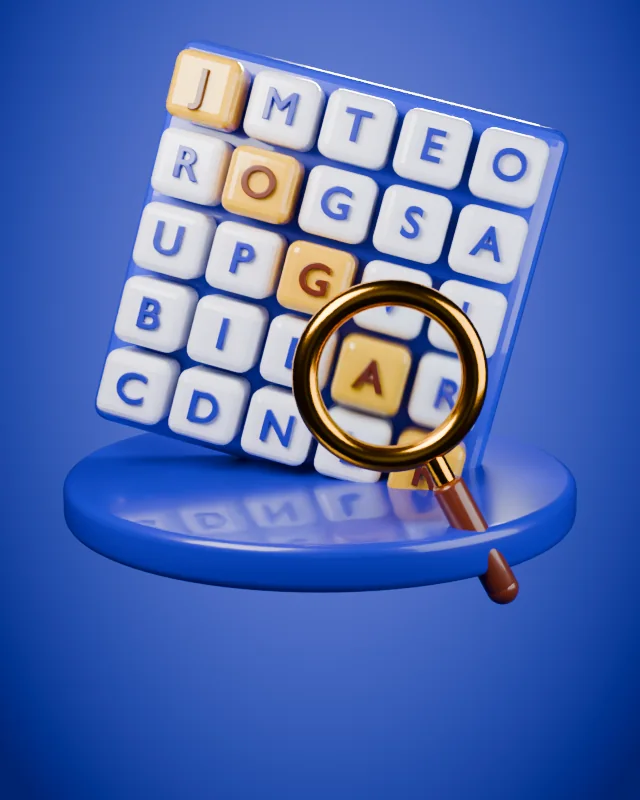
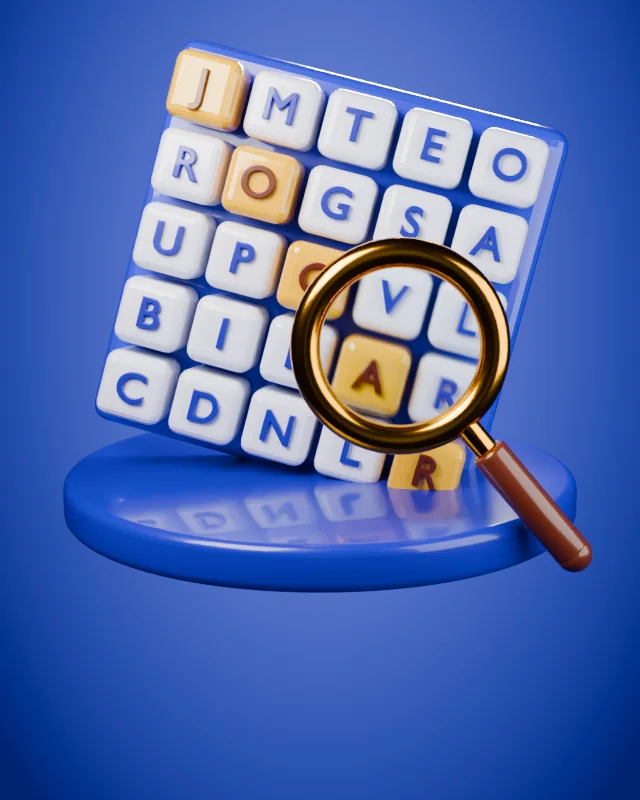
Fallback art for upcoming PlayVerse games
Claude-Session: https://claude.ai/code/session_01MHknEQHwoRP7PDrNv3vHVE

Changed region(s): [[0.4375, 0.2812, 0.9375, 0.7812]]

diff --git a/js/core/art.js b/js/core/art.js
@@ -93,8 +93,15 @@ const COVERS = new Set(['soccer', 'squad', 'mapquiz', 'flags', 'polyglot', 'busj
 export const hasCover = (id) => COVERS.has(id);
 export const coverUrl = (id) => new URL(`../../assets/covers/${id}.webp`, import.meta.url).href;
 
+// Temporary drawn art for games that do not have a 3D cover yet.
+const EMOJI_ART = { blocks: ['🧱', '#2b6fe0', '#0d2a6b'], water: ['🧪', '#7c3aed', '#2b0d6b'], snake: ['🐍', '#16a34a', '#06361c'], numbers: ['🔢', '#f59e0b', '#6b3a05'], solitaire: ['🃏', '#0f766e', '#04302c'], checkers: ['⚫', '#b91c1c', '#3a0707'], domino: ['🁣', '#0ea5e9', '#06334d'], sudoku: ['🔟', '#6366f1', '#1e1b6b'], g2048: ['🎲', '#f97316', '#5a2105'], crossword: ['✏', '#e11d48', '#4a0719'] };
+const emojiArt = (id) => {
+  const [e, a, b] = EMOJI_ART[id] || ['🎮', '#444', '#111'];
+  return `<div class="art" style="background:radial-gradient(circle at 50% 38%,${a},${b})"><span class="art-emoji c" style="--s:52">${e}</span></div>`;
+};
+
 export function gameArt(id) {
-  const legacy = (ART[id] || ART.soccer)();
+  const legacy = (ART[id] || (() => emojiArt(id)))();
   if (!COVERS.has(id)) return legacy;
   return `${legacy}<img class="cover" src="${coverUrl(id)}" alt="" decoding="async" draggable="false" onerror="this.remove()">`;
 }

diff --git a/tools/covers/squad.py b/tools/covers/squad.py
@@ -1,0 +1,53 @@
+import sys, os, random
+sys.path.insert(0, os.path.dirname(os.path.abspath(__file__)))
+from rig import *
+random.seed(5)
+S = int(os.environ.get('SAMPLES', 128))
+new_scene('#ffae3d', '#4a1438', samples=S)
+sand = glossy('#c98a45', 0.55, 0.2); sand2 = glossy('#8f5a2c', 0.55, 0.2)
+tan = glossy('#e0c07a', 0.35, 0.5); olive = glossy('#7d8f45', 0.35, 0.5); brown = glossy('#8a5a2b', 0.35, 0.5)
+trk = glossy('#3a3a3e', 0.5, 0.2); steel = metal('#4d4f55', 0.35); wheelm = glossy('#6d6a60', 0.4, 0.3)
+fire1 = emit('#ff4a00', 0.55); fire2 = emit('#ff9a00', 0.9); fire3 = emit('#e01800', 0.45)
+smoke = glossy('#3a3236', 0.8, 0.0); smoke2 = glossy('#5e5258', 0.8, 0.0); rub = glossy('#9a7a55', 0.6, 0.1)
+objs = []
+objs.append(cylinder(3.3, 0.5, sand, (0, 0, -0.25), bevel=0.22, seg=96))
+objs.append(cylinder(3.25, 0.6, sand2, (0, 0, -0.75), bevel=0.15, seg=96))
+# explosion behind
+fx = [(2.0, 1.2, 1.1, 1.0, fire3), (2.6, 1.0, 1.7, 0.8, fire1), (1.4, 1.4, 1.7, 0.75, fire1), (2.0, 0.8, 1.7, 0.55, fire2),
+      (2.5, 0.7, 1.1, 0.55, fire2), (1.8, 1.2, 2.4, 0.5, fire1), (3.0, 1.0, 2.2, 0.4, fire3), (1.0, 1.4, 1.1, 0.45, fire3)]
+for x, y, z, r, m in fx:
+    objs.append(sphere(r, m, (x, y, z), seg=32))
+for x, z, r, m in [(2.2, 2.9, 0.8, smoke), (1.4, 2.6, 0.6, smoke2), (3.0, 2.8, 0.55, smoke2), (2.4, 3.6, 0.55, smoke), (3.4, 2.0, 0.5, smoke)]:
+    objs.append(sphere(r, m, (x, 1.3, z), seg=32))
+for i in range(10):
+    a = random.uniform(0, 6.28)
+    objs.append(sphere(random.uniform(0.07, 0.14), fire2, (2.1 + math.cos(a)*random.uniform(1.2, 1.8), 0.6, 1.8 + math.sin(a)*random.uniform(1.0, 1.4)), seg=12))
+# tank
+t = []
+t.append(box((3.2, 0.5, 0.8), trk, (0, -1.0, 0.55), bevel=0.2))
+t.append(box((3.2, 0.5, 0.8), trk, (0, 1.0, 0.55), bevel=0.2))
+for sy in (-1, 1):
+    for x in (-1.2, -0.6, 0, 0.6, 1.2):
+        t.append(cylinder(0.33, 0.56, wheelm, (x, sy*1.0, 0.5), rot=(90, 0, 0), bevel=0.05))
+    t.append(cylinder(0.12, 0.58, trk, (1.45, sy*1.0, 0.55), rot=(90, 0, 0), bevel=0.02))
+    t.append(box((3.0, 0.62, 0.12), tan, (0, sy*1.0, 0.95), bevel=0.04))
+t.append(box((2.8, 1.8, 0.55), tan, (0, 0, 0.95), bevel=0.14))
+t.append(box((1.0, 1.7, 0.4), tan, (1.5, 0, 0.9), rot=(0, 28, 0), bevel=0.1))
+# camo patches
+for x, y, c in [(-0.8, -0.5, olive), (0.4, 0.45, brown), (-0.3, 0.6, olive), (0.9, -0.55, brown), (-1.2, 0.3, brown)]:
+    t.append(sphere(0.4, c, (x, y, 1.2), scale=(1.3, 1.0, 0.14)))
+# turret
+t.append(cylinder(0.85, 0.42, tan, (-0.15, 0, 1.45), bevel=0.14))
+t.append(box((1.3, 1.1, 0.5), tan, (-0.1, 0, 1.75), bevel=0.15))
+t.append(sphere(0.3, olive, (-0.1, 0.25, 2.1), scale=(1.4, 1.0, 0.3)))
+t.append(cylinder(0.2, 0.12, steel, (-0.5, -0.2, 2.05), bevel=0.03))
+t.append(cylinder(0.17, 0.5, tan, (0.4, 0, 1.8), rot=(0, 90, 0), bevel=0.04))
+t.append(cylinder(0.12, 2.0, steel, (1.6, 0, 1.8), rot=(0, 90, 0), bevel=0.02))
+t.append(cylinder(0.17, 0.3, steel, (2.55, 0, 1.8), rot=(0, 90, 0), bevel=0.04))
+t.append(cylinder(0.04, 0.9, steel, (-0.8, 0.4, 2.3), rot=(0, 0, 0), bevel=0.0))
+objs.append(parent(t, loc=(-0.7, -0.9, 0.0), rot=(0, 0, -25), scale=1.05))
+# rubble
+for x, y, s in [(-2.4, 0.8, 0.5), (-2.0, 1.4, 0.38), (-2.7, 0.2, 0.3), (2.7, -0.6, 0.35), (2.4, -1.4, 0.28), (-1.4, 1.9, 0.3)]:
+    objs.append(box((s, s*1.2, s*0.8), rub, (x, y, s*0.4), rot=(random.uniform(0, 30), random.uniform(0, 30), random.uniform(0, 90)), bevel=0.06))
+parent(objs, loc=(0, 0, 0.0), rot=(17, 0, 0), scale=0.72)
+render('squad')

diff --git a/tools/covers/hero.py b/tools/covers/hero.py
@@ -1,0 +1,52 @@
+import os, sys, math
+sys.path.insert(0, os.path.dirname(__file__))
+from props import *
+
+new_scene('#2fd070', '#06411f', samples=int(os.environ.get('S', 96)))
+# pitch disc with line + little goal
+pit = glossy('#1f9b4a', 0.7, 0.0, name='pitch')
+cylinder(3.3, 0.5, pit, loc=(0, 0.3, -0.25), bevel=0.12, seg=96)
+torus(1.5, 0.045, matte('#eafff0', 0.4, name='line'), loc=(0, 0.3, 0.0), rot=(0, 0, 0))
+white = glossy('#ffffff', 0.25, 0.7, name='post')
+netm = matte('#ffffff', 0.5, name='net')
+gx, gy, gw, gh, gd = -1.1, 1.7, 2.4, 1.3, 0.8
+for sx in (-1, 1):
+    cylinder(0.07, gh, white, loc=(gx + sx * gw / 2, gy, gh / 2), bevel=0.02, seg=24)
+    cylinder(0.04, gd, white, loc=(gx + sx * gw / 2, gy + gd / 2, 0.02), rot=(90, 0, 0), bevel=0.01, seg=16)
+    cylinder(0.04, gh, white, loc=(gx + sx * gw / 2, gy + gd, gh / 2), bevel=0.01, seg=16)
+    cylinder(0.04, gd, white, loc=(gx + sx * gw / 2, gy + gd / 2, gh), rot=(90, 0, 0), bevel=0.01, seg=16)
+cylinder(0.07, gw, white, loc=(gx, gy, gh), rot=(0, 90, 0), bevel=0.02, seg=24)
+cylinder(0.04, gw, white, loc=(gx, gy + gd, gh), rot=(0, 90, 0), bevel=0.01, seg=16)
+for i in range(1, 9):   # back net
+    x = gx - gw / 2 + gw * i / 9
+    cylinder(0.012, gh, netm, loc=(x, gy + gd, gh / 2), bevel=0, seg=8)
+for j in range(1, 5):
+    cylinder(0.012, gw, netm, loc=(gx, gy + gd, gh * j / 5), rot=(0, 90, 0), bevel=0, seg=8)
+for i in range(1, 9):   # top net
+    x = gx - gw / 2 + gw * i / 9
+    cylinder(0.012, gd, netm, loc=(x, gy + gd / 2, gh), rot=(90, 0, 0), bevel=0, seg=8)
+# ball + trail
+B = Vector((-0.1, -1.2, 2.3))
+C = Vector((2.0, -1.3, 1.9))
+E = Vector((3.2, -1.0, 3.7))
+soccer_ball(1.0, loc=tuple(B), rot=(25, 20, -35))
+def lerp(a, b, t):
+    return tuple(x + (y - x) * t for x, y in zip(a, b))
+def fcol(t):
+    c = lerp((1.0, 0.86, 0.2), (0.96, 0.2, 0.04), min(1, t * 1.15))
+    return '#%02x%02x%02x' % tuple(int(v * 255) for v in c)
+n = 44
+for i in range(n):
+    t = 0.12 + 0.88 * (i + 1) / (n + 1)
+    p = (1 - t) ** 2 * B + 2 * (1 - t) * t * C + t ** 2 * E
+    r = 0.95 * ((1 - t) / 0.88) ** 0.85 + 0.06
+    sphere(r, flame(fcol(t), 1.05 - 0.3 * t, f'tr{i}'), loc=tuple(p + Vector((0, 0.75 + 0.3 * t, 0))), seg=32)
+# sparks
+import random
+random.seed(4)
+for i in range(9):
+    t = random.uniform(0.15, 1.0)
+    p = (1 - t) ** 2 * B + 2 * (1 - t) * t * C + t ** 2 * E
+    sphere(random.uniform(0.05, 0.11), flame(fcol(0.1), 1.2, 'sp'), loc=tuple(p + Vector((random.uniform(-.6, .6), -0.2, random.uniform(-.6, .6)))), seg=16)
+fit(0.84, 0.0, -0.1)
+render('hero')

diff --git a/tools/covers/mapquiz.py b/tools/covers/mapquiz.py
@@ -1,0 +1,51 @@
+import os, sys, math
+sys.path.insert(0, os.path.dirname(os.path.abspath(__file__)))
+from rig import *
+from globe import globe_material
+from mathutils import Vector, Quaternion
+new_scene('#5fe0e8', '#0a6f9e', samples=int(os.environ.get('SAMPLES', 128)))
+Z = 1.3
+C = Vector((0, 0, Z))
+R = 1.6
+sphere(R, globe_material(ocean='#1d8fe0', land='#52c43a', land2='#38a03a', thresh=0.5, seed=7.0), loc=C)
+
+def frame(d, dist, scale=1.0):
+    e = bpy.data.objects.new('f', None)
+    bpy.context.scene.collection.objects.link(e)
+    d = Vector(d).normalized()
+    e.rotation_mode = 'QUATERNION'
+    e.rotation_quaternion = Vector((0, 0, 1)).rotation_difference(d)
+    e.location = C + d * dist
+    e.scale = (scale,) * 3
+    return e
+
+# map pin (local +Z points away from globe)
+red = glossy('#f0262c', 0.2, 0.8)
+white = glossy('#ffffff', 0.3, 0.4)
+pin = frame((0.18, -0.55, 0.8), R - 0.02, 1.15)
+head = sphere(0.5, red, loc=(0, 0, 1.12))
+cn = cone(0.4, 0.0, 1.1, red, loc=(0, 0, 0.55), rot=(180, 0, 0))
+hole = sphere(0.2, white, loc=(0, 0, 1.12 - 0.0))
+# push hole to the camera-facing side: slightly offset along local -Y is arbitrary; keep it at center top
+hole.location = (0, 0, 1.12 + 0.36)
+hole.scale = (1, 1, 0.35)
+for o in (head, cn, hole):
+    o.parent = pin
+ring = torus(0.2, 0.05, white, loc=(0, 0, 0.02))
+ring.scale = (1.3, 1.3, 0.5); ring.parent = pin
+
+def flag(d, cols, vertical=True, s=1.0):
+    f = frame(d, R - 0.03, s)
+    pole = cylinder(0.04, 1.5, metal('#e8e8f0', 0.15), loc=(0, 0, 0.75), bevel=0.01, seg=24)
+    ball = sphere(0.08, metal('#e8c040', 0.2), loc=(0, 0, 1.52))
+    pole.parent = ball.parent = f
+    n = len(cols)
+    for i, c in enumerate(cols):
+        w = 0.8 / n
+        b = box((0.04, w, 0.5) if not vertical else (0.04, w, 0.5), glossy(c, 0.35, 0.3), loc=(0, 0.04 + w / 2 + i * w, 1.22), bevel=0.01)
+        b.parent = f
+    return f
+flag((-0.8, -0.35, 0.55), ['#0b8a3a', '#ffffff', '#d0202e'], s=1.0)
+flag((0.95, -0.2, 0.25), ['#f6d21f', '#1f4fb5', '#d0202e'], s=0.9)
+shadow_catcher(0.0)
+render('mapquiz')

diff --git a/tools/covers/pingpong.py b/tools/covers/pingpong.py
@@ -1,0 +1,37 @@
+import sys, os
+sys.path.insert(0, os.path.dirname(os.path.abspath(__file__)))
+from rig import *
+S = int(os.environ.get('SAMPLES', 128))
+new_scene('#56c0ff', '#0b2d86', samples=S)
+tbl = glossy('#1650d0', 0.15, 0.8); white = glossy('#ffffff', 0.3, 0.4); red = glossy('#e8262c', 0.3, 0.6)
+wood = glossy('#d9a15a', 0.35, 0.4); orange = glossy('#ff8a1a', 0.2, 0.7); dark = glossy('#1a2540', 0.4, 0.3)
+net = glossy('#f2f5fa', 0.5, 0.2); glow = emit('#ffd36a', 2.0)
+objs = []
+objs.append(box((5.2, 3.1, 0.3), tbl, (0, 0, 1.1), bevel=0.1))
+objs.append(box((5.2, 0.06, 0.02), white, (0, -1.4, 1.26), bevel=0))
+objs.append(box((5.2, 0.06, 0.02), white, (0, 1.4, 1.26), bevel=0))
+objs.append(box((0.06, 3.1, 0.02), white, (-2.5, 0, 1.26), bevel=0))
+objs.append(box((0.06, 3.1, 0.02), white, (2.5, 0, 1.26), bevel=0))
+for sx in (-2.3, 2.3):
+    for sy in (-1.2, 1.2):
+        objs.append(box((0.3, 0.3, 1.0), dark, (sx, sy, 0.5), bevel=0.05))
+# net
+objs.append(box((0.08, 3.3, 0.6), net, (0, 0, 1.55), bevel=0.02))
+objs.append(box((0.1, 3.3, 0.1), white, (0, 0, 1.88), bevel=0.04))
+for sy in (-1.65, 1.65):
+    objs.append(cylinder(0.07, 0.8, dark, (0, sy, 1.55), bevel=0.02))
+# paddle
+p = [cylinder(0.85, 0.16, red, (0, 0, 0), rot=(90, 0, 0), bevel=0.05, seg=96),
+     cylinder(0.72, 0.19, glossy('#c4151b', 0.5, 0.2), (0, 0, 0), rot=(90, 0, 0), bevel=0.02, seg=96),
+     box((0.22, 0.2, 0.9), wood, (0, 0, -1.1), bevel=0.08),
+     cylinder(0.14, 0.24, red, (0, 0, -1.55), rot=(90, 0, 0), bevel=0.04)]
+p[1].location.y = 0
+objs.append(parent(p, loc=(-1.5, -0.9, 3.5), rot=(0, -28, -30), scale=1.75))
+BX, BY, BZ = 1.5, -0.9, 3.9
+objs.append(sphere(0.6, orange, (BX, BY, BZ)))
+for dx, dz, r in [(-0.85, -0.2, 0.42), (-1.4, -0.35, 0.28), (-1.8, -0.45, 0.17)]:
+    objs.append(sphere(r, glossy('#ffc067', 0.3, 0.3), (BX + dx, BY, BZ + dz)))
+# shadow ring
+objs.append(torus(0.5, 0.03, glow, (BX, BY, 1.27)))
+parent(objs, loc=(0, 0, -0.2), rot=(22, 0, -14), scale=0.72)
+render('pingpong')

diff --git a/tools/covers/props.py b/tools/covers/props.py
@@ -57,3 +57,36 @@ def fit(scale=1.0, dz=0.0, dx=0.0):
 
 def podium(color, r=3.3, h=0.5, z=0.0, rough=0.3):
     return cylinder(r, h, glossy(color, rough, 0.5, name='podium'), loc=(0, 0, z - h / 2), bevel=0.12, seg=96)
+
+
+def soccer_ball(R=1.0, loc=(0, 0, 0), rot=(0, 0, 0)):
+    """White glossy ball with 12 black pentagon patches (icosahedron vertex directions)."""
+    import math as m
+    from mathutils import Vector
+    phi = (1 + 5 ** 0.5) / 2
+    dirs = []
+    for a in (-1, 1):
+        for b in (-phi, phi):
+            dirs += [Vector((0, a, b)), Vector((a, b, 0)), Vector((b, 0, a))]
+    white = glossy('#ffffff', 0.18, 0.9, name='ball_white')
+    black = glossy('#15151c', 0.2, 0.9, name='ball_black')
+    parts = [sphere(R, white)]
+    for d in dirs:
+        d = d.normalized()
+        p = cylinder(0.28 * R, 0.1 * R, black, loc=tuple(d * (R * 0.965)), bevel=0.03 * R, seg=5)
+        p.rotation_euler = d.to_track_quat('Z', 'Y').to_euler()
+        parts.append(p)
+    return parent(parts, loc=loc, rot=rot)
+
+
+def flame(color, strength=2.0, name=None):
+    m = bpy.data.materials.new(name or f'fl_{color}')
+    m.use_nodes = True
+    nt = m.node_tree
+    nt.nodes.clear()
+    out = nt.nodes.new('ShaderNodeOutputMaterial')
+    e = nt.nodes.new('ShaderNodeEmission')
+    e.inputs['Color'].default_value = (*srgb(color), 1)
+    e.inputs['Strength'].default_value = strength
+    nt.links.new(e.outputs[0], out.inputs['Surface'])
+    return m
